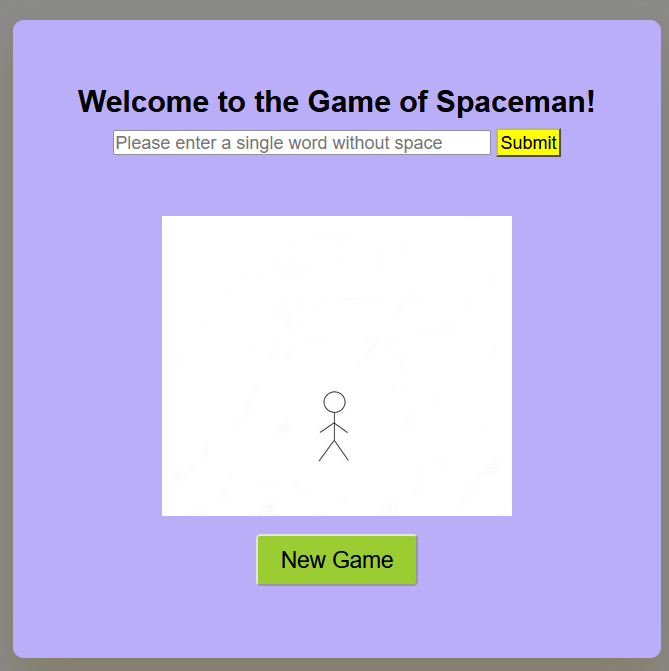
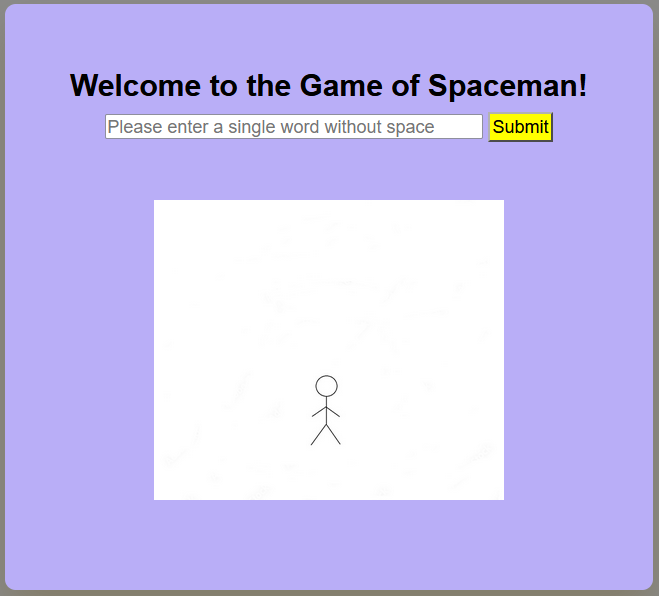
final update

diff --git a/js/main.js b/js/main.js
@@ -22,6 +22,7 @@ const blocker = () => {
     button.disabled = true;
   });
   newGameContainer.classList.remove("hide");
+  newGameButton.classList.remove("hide");
   resultText.classList.remove("hide");
   wordInput.classList.remove("hide");
 };
@@ -53,6 +54,7 @@ const Init = () => {
   scrambleSection.innerHTML = "";
   letterContainer.classList.add("hide");
   newGameContainer.classList.add("hide");
+  newGameButton.classList.add("hide");
   resultText.classList.add("hide");
   letterContainer.innerHTML = "";
   //for creating letter buttons
